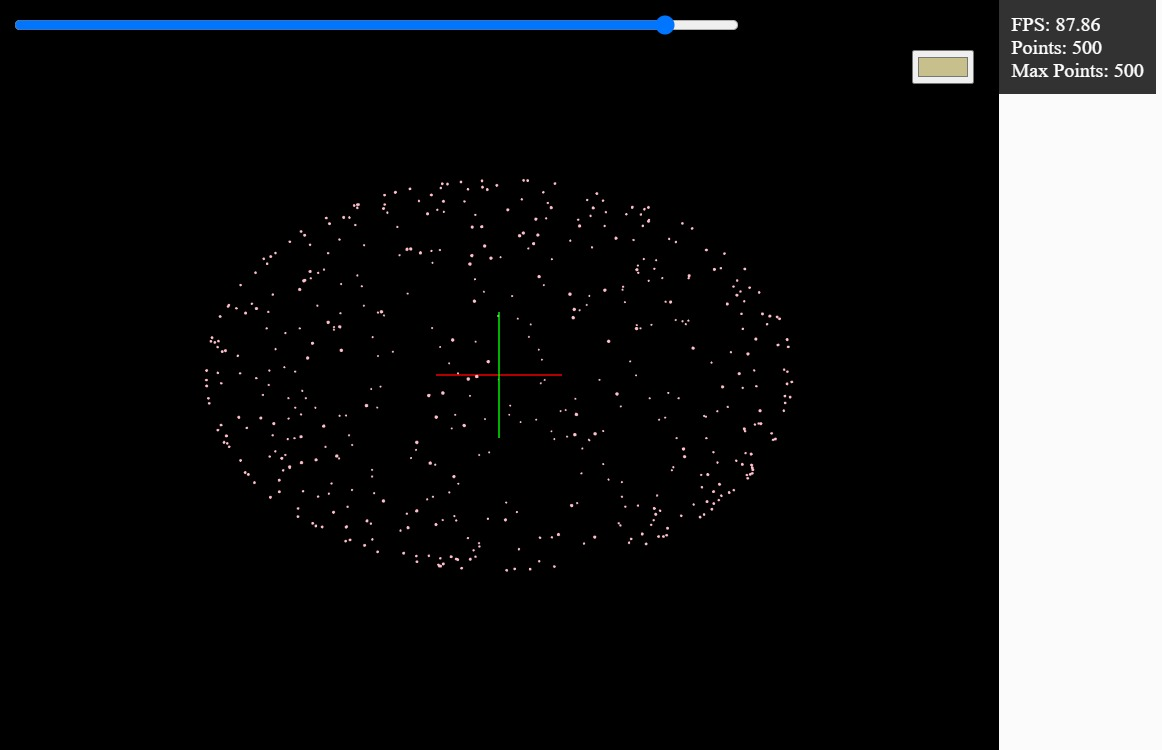
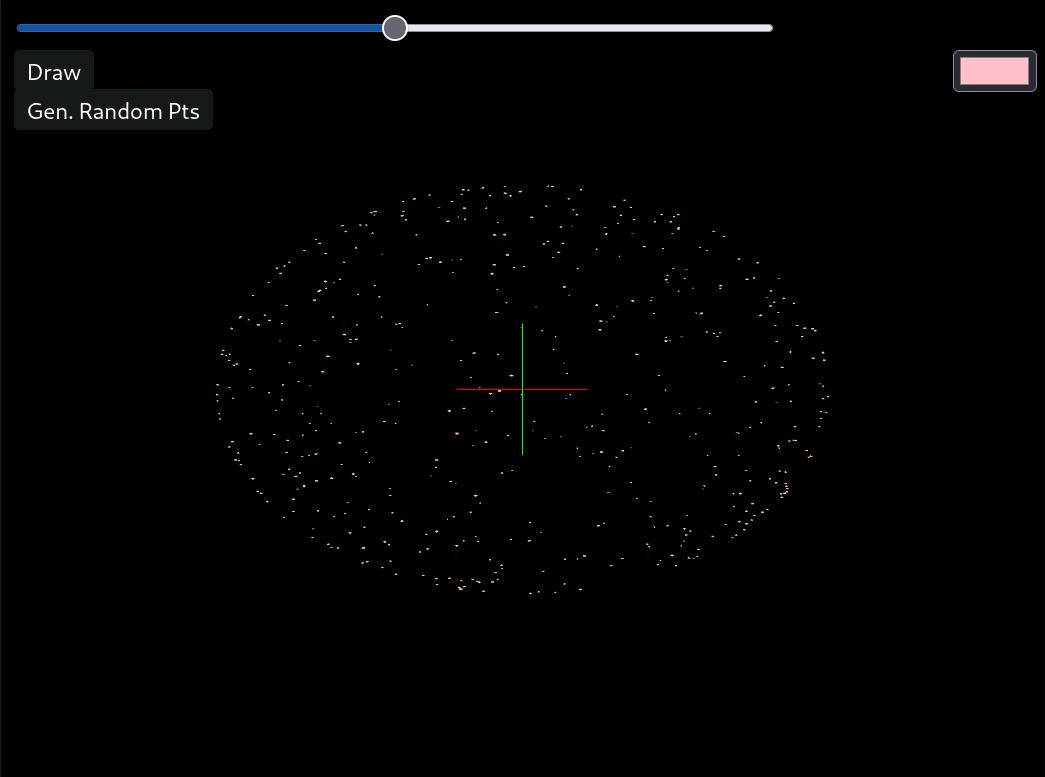
Updated blog

diff --git a/content/blog/TheRiseOfWebGPU.md b/content/blog/TheRiseOfWebGPU.md
@@ -1,0 +1,25 @@
++++
+title = "The Rise of WebGPU"
+date = 2025-03-05
+template = "page.html"
++++
+
+#### The Rise of WebGPU
+
+As technology advances, there's a shift towards WebGPU—a modern web standard and API designed to harness the full potential of a device's graphics processing unit (GPU). Unlike WebGL, which is rooted in the older OpenGL ES, WebGPU draws inspiration from contemporary graphics APIs like Vulkan, Metal, and Direct3D 12. This evolution promises enhanced performance and more direct access to GPU capabilities.
+
+#### Shaders: Transitioning from GLSL to WGSL
+
+A significant aspect of this transition is the shift in shading languages. WebGL utilizes GLSL (OpenGL Shading Language), a language with a legacy spanning over two decades. In contrast, WebGPU introduces WGSL (WebGPU Shading Language). While WGSL is tailored for modern GPU architectures, its adoption has met with mixed reactions within the developer community.
+
+#### Frameworks Adapting to Change
+
+Recognizing the evolving landscape, frameworks are adapting accordingly:
+
+- **Three.js**: To address concerns surrounding WGSL, the Three.js team is developing TSL (Three.js Shading Language). This proprietary shading language aims to offer developers a more intuitive and integrated experience within the Three.js ecosystem.
+
+- **p5.js**: While primarily focused on 2D graphics, p5.js has ventured into 3D rendering using WebGL. The transition to WebGPU presents both challenges and opportunities for this framework, especially in balancing simplicity with advanced capabilities. In this context, [**q5.js**](https://q5js.org/home/) emerges as a noteworthy initiative. Inspired by p5.js and Processing, q5.js is a beginner-friendly graphics framework powered by WebGPU, optimized for interactive art, and compatible with popular addons like p5.sound and p5play. It offers a lightning-fast WebGPU renderer and aims to make creative coding more accessible.
+
+#### Looking Ahead
+
+The migration from WebGL to WebGPU signifies a pivotal shift in web graphics. Developers can anticipate more efficient rendering, broader access to GPU features, and the evolution of frameworks to accommodate these advancements. As these technologies mature, the web is poised to host richer and more immersive 3D experiences.

diff --git a/content/blog/RosettaCode.md b/content/blog/RosettaCode.md
@@ -6,11 +6,11 @@ template = "page.html"
 
 #### The Rosetta Stone
 
-The Rosetta Stone has inscribed on it a decree by priests honouring Ptolemy V, who was 13 at the time. The inscription is in hieroglyphic and demotic - both scripts of the Egyptian language - and Greek. Comparing the known Greek with the hieroglyphs with some remarkable talent became the key to deciphering the written language of hieroglyphs.
+Just as the Rosetta Stone served as a bridge between ancient languages, enabling the deciphering of Egyptian hieroglyphs by providing parallel texts in Greek and Demotic scripts, modern 3D web frameworks like p5.js, Three.js, and WebGL act as intermediaries, translating complex graphics programming into more accessible forms for developers. These tools, built atop the WebGL API, have empowered developers to create intricate visual experiences on the web.
 
 ![rosetta stone](https://sketchplanations.com/_next/image?url=https%3A%2F%2Fimages.prismic.io%2Fsketchplanations%2Fec6046c3-6ec9-46ae-9625-53f2c12376bc_129239825802.jpg%3Fauto%3Dcompress%2Cformat&w=1080&q=75)
 
-Similarly, the 3D Web frameworks described here can be "translated" between each other. Is importan to note that basically, most of the current 3D web frameworks are based on the WebGL API, which is a low-level API that exposes the OpenGL ES 3.0 API. So in a degree it is just a matter of preference to choose which framework to use. or at least it should be demosntrated in the next benchmark post. In this case we are comparing p5.JS, Three.js and WebGL.  
+Similarly, the 3D Web frameworks described here can be "translated" between each other. Is importan to note that basically, most of the current 3D web frameworks are based on the WebGL API, which is a low-level API that exposes the OpenGL ES 3.0 API. So in a degree it is just a matter of preference to choose which framework to use. or at least it should be demonstrated in the next benchmark post. In this case we are comparing p5.JS, Three.js and WebGL.  
 
 
 ##### COMPARISON OF 3D POINT CLOUD DEVELOPMENT: WEBGL, P5.js, AND THREE.js

diff --git a/content/blog/WEBGLVSP5VSThreeJs.md b/content/blog/WEBGLVSP5VSThreeJs.md
@@ -108,7 +108,7 @@ FPS
 
 #### THREE.JS
 
-{{ image(src="/../blog/Three_1000.jpeg", alt="threejs", style="border-radius: 8px;") }}
+{{ image(src="/../blog/Three_500.jpeg", alt="threejs", style="border-radius: 8px;") }}
 <table>
   <thead>
   <tr>
